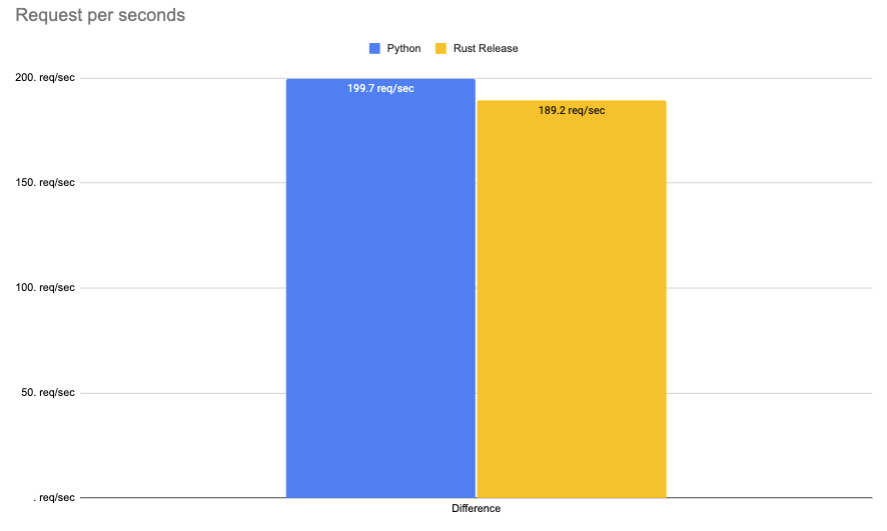
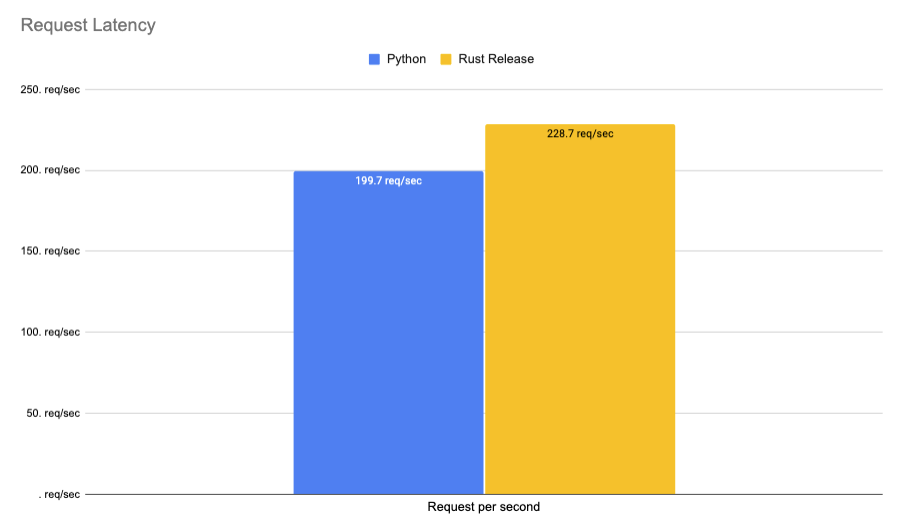
added request per second

diff --git a/webservice-python-ffi/README.md b/webservice-python-ffi/README.md
@@ -121,11 +121,11 @@ Benchmark are run on a g4dn.xlarge on GPU. With Workers 1
 
 |              | Python     | Rust Debug  | Rust Release | Difference |
 |--------------|------------|-------------|--------------|------------|
-| Total        | 5.0085     | 4.7305      | 4.3720      | +5,52%    |
-| Slowest      | 0.2988     | 0.2561      | 0.2230      | +16,87%    |
-| Fastest      | 0.0119     | 0.0112      | 0.0069       | +98,32%    |
-| Average      | 0.2427     | 0.2308      | 0.2130       | +5,4%    |
-| Requests/sec | 199.6598 | 211.3957 | 228.7281  | 5,23%   |
+| Total        | 5.0085     | 4.7305      | 4.3720      | -5,52%    |
+| Slowest      | 0.2988     | 0.2561      | 0.2230      | -16,87%    |
+| Fastest      | 0.0119     | 0.0112      | 0.0069       | -98,32%    |
+| Average      | 0.2427     | 0.2308      | 0.2130       | -5,4%    |
+| Requests/sec | 199.6598 | 211.3957 | 228.7281  | -5,23%   |
 
 ![requests-per-second](req_sec_gpu.png)
 
@@ -169,73 +169,15 @@ Response time histogram:
 
 ```bash
 Response time histogram:
-  0.039 [1]     |
-  0.233 [6]     |
-  0.426 [6]     |
-  0.620 [6]     |
-  0.814 [6]     |
-  1.007 [7]     |
-  1.201 [14]    |■
-  1.394 [17]    |■
-  1.588 [929]   |■■■■■■■■■■■■■■■■■■■■■■■■■■■■■■■■■■■■■■■■
-  1.781 [1]     |
-  1.975 [7]     |
-```
-
-
-### GPU 10k requests
-```bash
- hey -n 10000 -m POST -H 'Content-Type: application/json' -d '{"inputs": "I love you. I like you. I am your friend."}' http://127.0.0.1:8080/age
-```
-
-### Rust
-```bash
-
-Summary:
-  Total:        52.6566 secs
-  Slowest:      0.2706 secs
-  Fastest:      0.0082 secs
-  Average:      0.2625 secs
-  Requests/sec: 189.9098
-  
-  Total data:   400000 bytes
-  Size/request: 40 bytes
-
-Response time histogram:
-  0.008 [1]     |
-  0.034 [14]    |
-  0.061 [5]     |
-  0.087 [5]     |
-  0.113 [5]     |
-  0.139 [5]     |
-  0.166 [6]     |
-  0.192 [5]     |
-  0.218 [8]     |
-  0.244 [19]    |
-  0.271 [9927]  |■■■■■■■■■■■■■■■■■■■■■■■■■■■■■■■■■■■■■■■■
-```
-```bash
-### Python
-  Summary:
-  Total:        51.3509 secs
-  Slowest:      0.3364 secs
-  Fastest:      0.0137 secs
-  Average:      0.2561 secs
-  Requests/sec: 194.7387
-  
-  Total data:   490000 bytes
-  Size/request: 49 bytes
-
-Response time histogram:
-  0.014 [1]     |
-  0.046 [5]     |
-  0.078 [5]     |
-  0.110 [12]    |
-  0.143 [1]     |
-  0.175 [3]     |
-  0.207 [6]     |
-  0.240 [1145]  |■■■■■■■■
-  0.272 [5868]  |■■■■■■■■■■■■■■■■■■■■■■■■■■■■■■■■■■■■■■■■
-  0.304 [2876]  |■■■■■■■■■■■■■■■■■■■■
-  0.336 [78]    |■
+  0.013 [1]     |
+  0.049 [7]     |■
+  0.085 [6]     |■
+  0.121 [8]     |■
+  0.156 [7]     |■
+  0.192 [8]     |■
+  0.228 [26]    |■■
+  0.264 [395]   |■■■■■■■■■■■■■■■■■■■■■■■■■■■■■■■■■■
+  0.300 [461]   |■■■■■■■■■■■■■■■■■■■■■■■■■■■■■■■■■■■■■■■■
+  0.336 [35]    |■■■
+  0.372 [46]    |■■■■
 ```

diff --git a/README.md b/README.md
@@ -13,3 +13,8 @@ This repository contains the code to my blog post [Rust 🦀 vs Python 🐍: a s
 ## Results
 
 ![latency-results](./latency.png)
+
+
+_Note: Removed webservice `req/sec` since rust has 45874 req/sec, which leads to unreadability of the rest._
+
+![req-sec](./req_sec.png)
